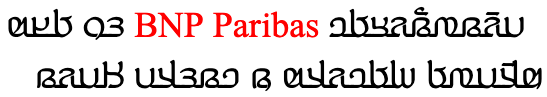
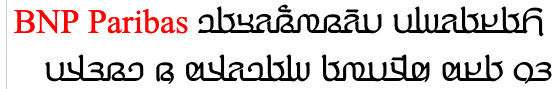
adlam, Adapt the example of embedded latin line breaking

diff --git a/adlam/index.html b/adlam/index.html
@@ -69,7 +69,7 @@ document.getElementById('sizeIndicator').innerHTML = (document.getElementById('s
 
 
 <p id="status">Updated
-<!-- #BeginDate format:Sw1 -->17 June, 2020<!-- #EndDate --> <span id="versionTop"></span>
+<!-- #BeginDate format:Sw1 -->18 June, 2020<!-- #EndDate --> <span id="versionTop"></span>
 </p>
 
 
@@ -1380,9 +1380,9 @@ ARABIC QUESTION MARK</span></a>]</span>&nbsp;</p>
 <p><a class="figref">latin-line-breaks</a> shows how two Latin words are apparently reordered in the flow of text to accommodate this rule. Of course, the rearragement is only that of the visual glyphs: nothing affects the order of the characters in memory.</p>
 
 <figure id="latin-line-breaks">
-<p><img src="images/latin-line-breaks-1.png" alt="Text with no line break in Latin text."/></p>
-<p><img src="images/latin-line-breaks-2.png" alt="Text with line break in Latin text."/></p>
-    <figcaption>The lower of these two images shows the result of more text to the beginning of the first line, so that text wraps between a sequence of Latin words.</figcaption>
+<p style="margin: auto; text-align: right;"><img src="images/latin-line-breaks-1.png" alt="Text with no line break in Latin text."></p>
+<p style="margin: auto; margin-top: 2em; text-align: right;"><img src="images/latin-line-breaks-2.png" alt="Text with line break in Latin text."></p>
+    <figcaption>The lower of these two images shows the result of decreasing the line width, so that text wraps between a sequence of Latin words.</figcaption>
 </figure>
 
 
@@ -1499,7 +1499,7 @@ punctuation mark at the end of a line.</p>
 <h3>Counters, lists, etc.</h3>
 <p class="prompts">tbd</p>
 
-<p class="observation"><span class="leadin">Observation:</span> The Winden Jangen site has scans of a number of books which use ordered lists, and they  use Adlam  numbers (see fig_cs_numeric).</p>
+<p class="observation"><span class="leadin">Observation:</span> The Winden Jangen site has scans of a number of books which use ordered lists, and they  use Adlam  numbers (see <a class="figref">fig_cs_numeric</a>).</p>
 
 <figure id="fig_cs_numeric">
 <img src="images/cs_numeric.png" alt="Numeric list style.">
